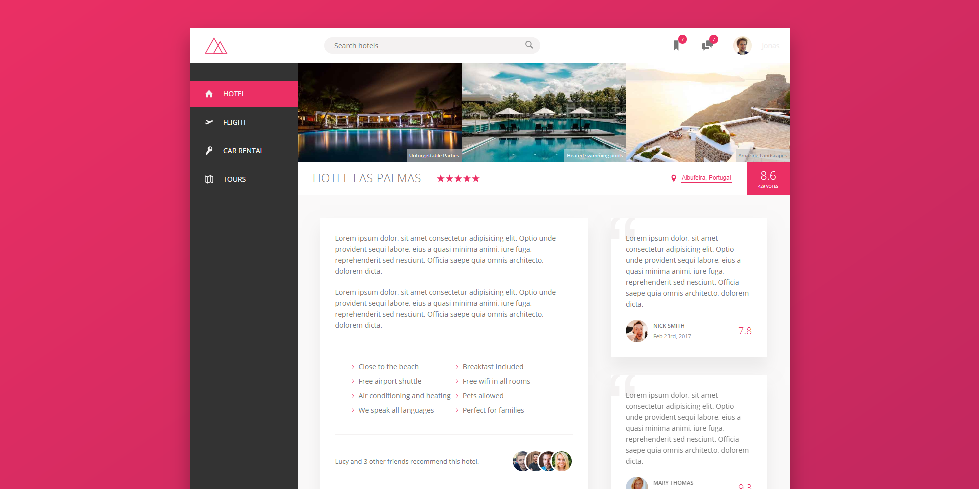
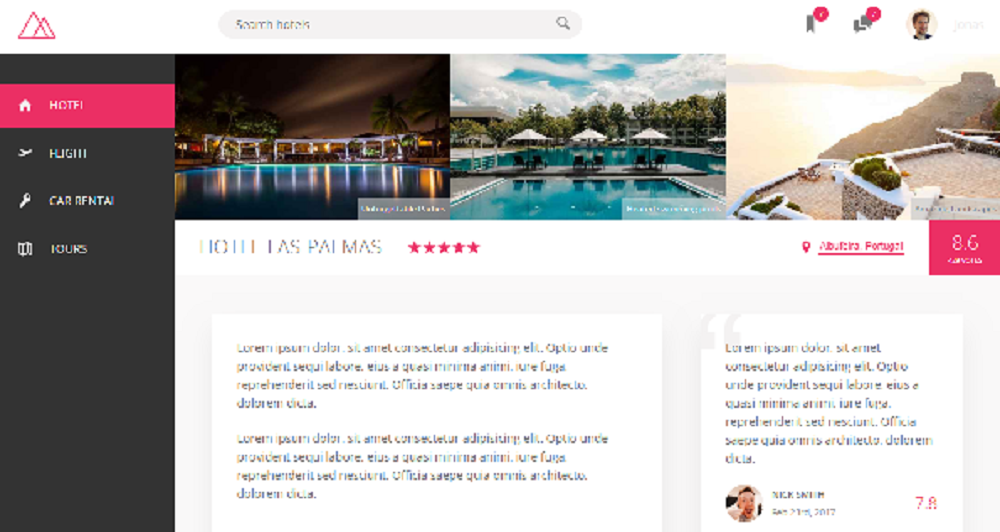
pictures upgraded (still need imporvment), projects scroll animation

diff --git a/index.html b/index.html
@@ -13,7 +13,7 @@
 
     <body>
 
-        <header class="header">
+        <header class="header" id="header">
 
             <ul class="menu">
                 <li class="menu__item"><a href="#projects" class="menu__link">Projects</a></li>
@@ -93,8 +93,10 @@
 
             <ul class="contact__list">
                 <li class="contact__item">Ilmo Ott</li>
-                <li class="contact__item"><a href="https://github.com/ilmoott" class="contact__link">GitHub</a></li>
-                <li class="contact__item"><a href="http://" class="contact__link">Linkedin</a></li>
+                <li class="contact__item"><a href="https://github.com/ilmoott" class="contact__link">
+                    <img src="images/GitHub.png" alt="GitHub Icon" srcset=""></a></li>
+                <li class="contact__item"><a href="https://www.linkedin.com/in/ilmo-ott-99a58517/" class="contact__link">
+                    <img src="images/linkedin.png" alt="Linkedin Icon" srcset=""></a></li>
                 <li class="contact__item">Email: ilmo.ott@hotmail.com</li>
                 <li class="contact__item">Phone: 061-0450381573</li>
                 
@@ -104,7 +106,7 @@
         </section>
         
         
-
+        <script src="https://unpkg.com/scrollreveal/dist/scrollreveal.min.js"></script>
         <script src="js/app.js"></script>
     </body>
 </html>

diff --git a/style/css/style.css b/style/css/style.css
@@ -22,6 +22,9 @@ body {
   font-family: 'Lato', sans-serif;
   color: #e6e5ea;
   font-weight: 300; }
+  @media screen and (min-width: 100rem) {
+    body {
+      font-size: 3rem; } }
 
 .menu__link:link, .menu__link:visited {
   text-decoration: none;
@@ -38,6 +41,9 @@ body {
 .logo__letters {
   font-size: 20rem;
   font-weight: 300; }
+  @media screen and (min-width: 120rem) {
+    .logo__letters {
+      font-size: 40rem; } }
 
 .project__title {
   font-weight: 300;
@@ -75,9 +81,15 @@ body {
     margin-top: 3rem; }
 
 .contact {
-  margin-top: 10rem; }
+  margin-top: 10rem;
+  border-top: 1px solid #e6e5ea; }
   .contact__item:not(:first-child) {
     margin-top: 1rem; }
+  .contact__link img {
+    width: 20%; }
+    @media screen and (min-width: 100rem) {
+      .contact__link img {
+        width: 5%; } }
 
 .header {
   margin-top: 2rem; }

diff --git a/style/scss/0-Base/_typography.scss b/style/scss/0-Base/_typography.scss
@@ -3,6 +3,10 @@ body{
     font-family: 'Lato', sans-serif;
     color: #e6e5ea;
     font-weight: 300;
+
+    @media screen and (min-width: 100rem){
+        font-size: 3rem;
+    }
 };
 
 
@@ -31,7 +35,11 @@ body{
 
 .logo__letters{
     font-size: 20rem;
-    font-weight: 300;  
+    font-weight: 300;
+
+    @media screen and (min-width: 120rem) {
+        font-size: 40rem;
+    }
 }
 
 .project{

diff --git a/js/app.js b/js/app.js
@@ -1,0 +1,18 @@
+;(function(){
+
+    let projects, projectsArray;
+
+    projects = document.getElementsByClassName('project');
+    projectsArray = Array.from(projects);
+        //Array.from is used to convert an Html collection to an array
+
+
+
+    window.sr = ScrollReveal();
+    projectsArray.forEach(function(e){
+        sr.reveal(e,{duration: 1500})
+    });
+
+
+})();
+

diff --git a/style/scss/1-Layout/_footer.scss b/style/scss/1-Layout/_footer.scss
@@ -1,7 +1,20 @@
 .contact{
     margin-top: 10rem;
+    border-top: 1px solid #e6e5ea;
 
     &__item:not(:first-child){
         margin-top: 1rem;
+    }
+
+    &__link{
+
+        img{
+            width: 20%;
+
+
+            @media screen and (min-width: 100rem) {
+                width: 5%;
+            }
+        }
     }
 }

diff --git a/style/scss/1-Layout/_article.scss b/style/scss/1-Layout/_article.scss
@@ -3,6 +3,7 @@
     display: flex;
     flex-direction: column;
     align-items: center;
+    
 
     &__title{
         margin: 3rem auto 2rem auto;
